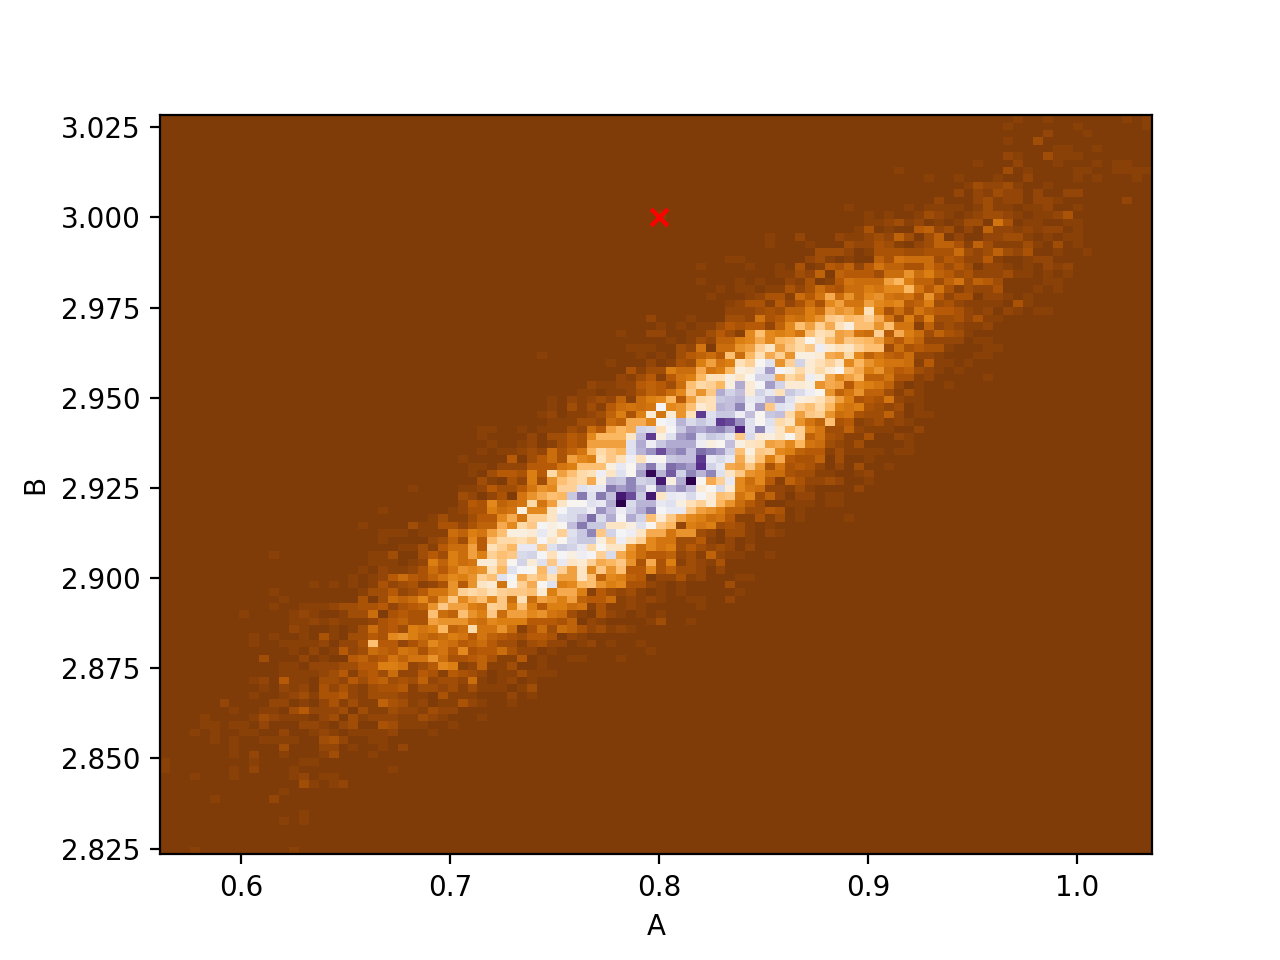
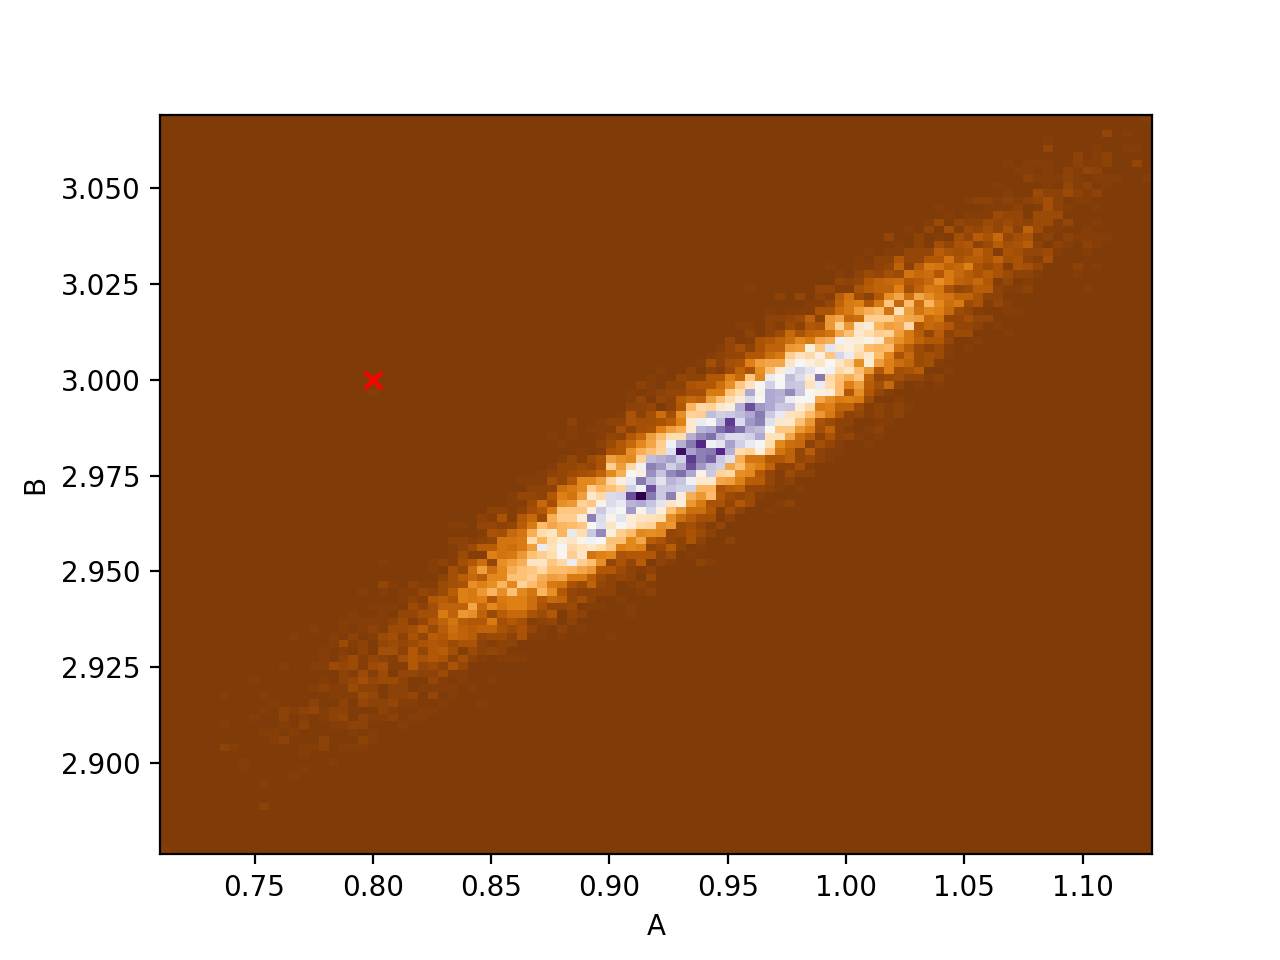
i.i.d. data bug

diff --git a/src/flow_grf.py b/src/flow_grf.py
@@ -5,11 +5,14 @@ import jax.random as jr
 import flax.linen as nn
 import blackjax
 import optax
+import numpy as np
 from sklearn.preprocessing import StandardScaler
 import matplotlib.pyplot as plt
 import powerbox as pbox
 from tqdm import trange
 import tensorflow_probability.substrates.jax.distributions as tfd
+import pandas as pd
+from chainconsumer import Chain, ChainConsumer
 
 
 def make_field(seed, A, B, data_dim):
@@ -148,18 +151,19 @@ if __name__ == "__main__":
     # Data
     data_dim            = 32 # Dimensionality of 1D GRF
     parameter_dim       = 2  # A and B in P(k) = Ak^-B
+    param_names         = ["A", "B"]
     lower               = jnp.array([0.1, 1.])
     upper               = jnp.array([1.5, 4.])
     use_scaler          = False # Standardising scaler on data or not
     # Model and training
     n_data              = 50_000
-    d_hidden            = 32
+    d_hidden            = 128
     n_samples           = 10
-    n_steps             = 10_000
-    n_batch             = 128
+    n_steps             = 20_000
+    n_batch             = 256
     lr                  = 1e-4
     # MCMC sampling
-    n_obs               = 50 # Number of i.i.d. datavectors to sample
+    n_obs               = 100 # Number of i.i.d. datavectors to sample
     num_samples         = 20_000
     num_chains          = 1
     inv_mass_matrix     = jnp.ones((parameter_dim,)) * 0.1 
@@ -261,18 +265,15 @@ if __name__ == "__main__":
     key_q, key_sample = jr.split(key)
 
     # Generate i.i.d. measurements at true parameters
-    obs = []
-    for i in range(n_obs):
-        obs.append(make_fields(parameters, data_dim))
-    observed = jnp.concatenate(obs)
+    observed = make_fields(jnp.concatenate([parameters] * n_obs), data_dim)
 
 
     def density_fn(x, observed):
         # Posterior density function
         pi = x["pi"]
-        pi = pi[jnp.newaxis, :] if n_obs == 1 else jnp.stack([pi] * n_obs)
-        log_prob = model.apply(params, observed, pi) + parameter_prior.log_prob(pi)
-        return log_prob.sum()
+        pi_ = jnp.stack([pi] * n_obs) # Stacked to match obs. dimension
+        log_prob = model.apply(params, observed, pi_).sum() + parameter_prior.log_prob(pi)
+        return log_prob
 
 
     # Initialise MCMC on posterior function (scaling data, very important)
@@ -304,4 +305,19 @@ if __name__ == "__main__":
     plt.xlabel("A")
     plt.ylabel("B")
     plt.savefig("mcmc.png")
+    plt.close()
+
+    c = ChainConsumer()
+    posterior_df = pd.DataFrame(
+        states.position["pi"].squeeze(), columns=param_names
+    ).assign(log_posterior=states.logdensity)
+
+    c.add_chain(Chain(samples=posterior_df, name="Flow posterior", shade_alpha=0.))
+    c.add_marker(location=dict(zip(param_names, np.asarray(parameters).squeeze())), name=r"$\pi$", color="k")
+    fig = c.plotter.plot()
+    fig.set_dpi(200)
+    fig.set_figwidth(5.)
+    fig.set_figheight(5.)
+    fig.suptitle("Flow posterior")
+    plt.savefig("posterior.png")
     plt.close()

diff --git a/README.md b/README.md
@@ -2,6 +2,6 @@
 
 Simple code to sample a posterior for some model parameters $\pi$ of a model for the power spectrum $P(k) = Ak^{-B}$ of a one-dimensional Gaussian random field (GRF).
 
-Fit the flow, sample the posterior with a uniform prior on $\pi$ given a measurement $\hat{\xi}$ of a GRF.
+Fit the flow, sample the posterior with a uniform prior on $\pi$ given a measurement $\hat{\xi}$ of a GRF using an MCMC sampler.
 
 ![alt text](mcmc.png?raw=true)
